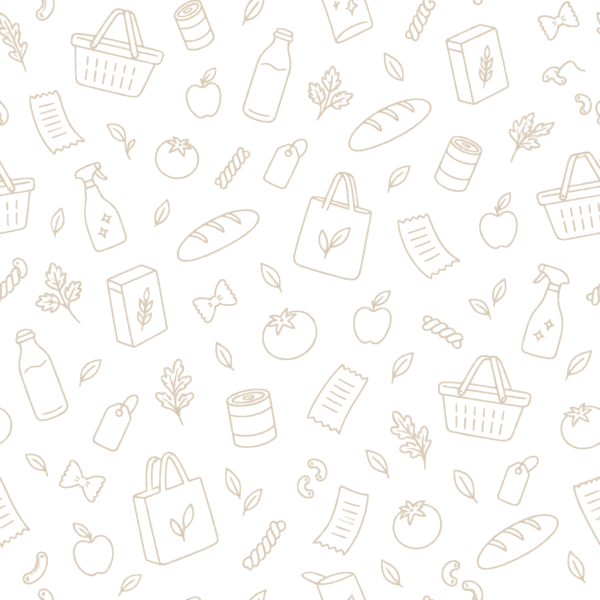
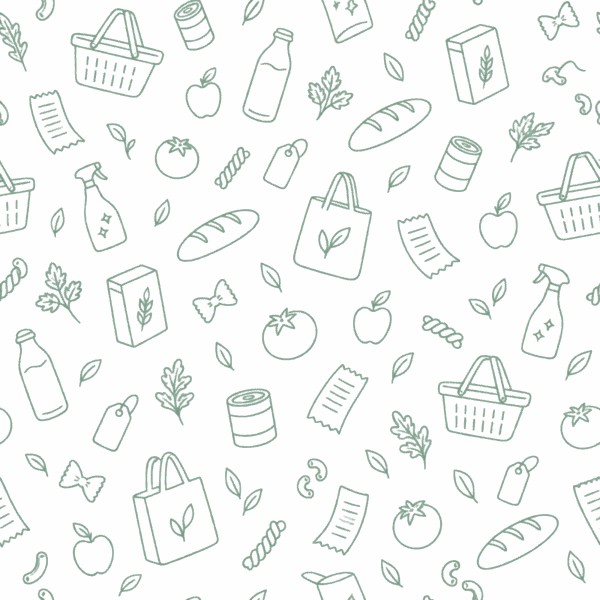
Refine signed-in Home colour hierarchy (#91)

diff --git a/src/components/WeeklyCommandCentre.tsx b/src/components/WeeklyCommandCentre.tsx
@@ -134,7 +134,7 @@ export function WeeklyCommandCentre() {
             </span>
           )}
         </div>
-        <div className="eve-workspace overflow-hidden rounded-[1.75rem] border border-[#dfd9cc] shadow-[0_24px_70px_rgba(38,58,44,0.10)]">
+        <div className="eve-workspace overflow-hidden rounded-[1.75rem] border border-[#d4e4d9] shadow-[0_24px_70px_rgba(38,58,44,0.09)]">
           <HomePlanner onJourneyStateChange={setJourneyState} />
         </div>
         {journeyState.hasConversation && (
@@ -144,10 +144,10 @@ export function WeeklyCommandCentre() {
         )}
       </section>
 
-      <aside className="rounded-[1.5rem] border border-black/[0.06] bg-[#fffdf8] p-4 shadow-[0_18px_55px_rgba(38,58,44,0.07)] sm:p-5 lg:mt-9">
+      <aside className="rounded-[1.5rem] border border-black/[0.065] bg-white p-4 shadow-[0_18px_55px_rgba(38,58,44,0.07)] sm:p-5 lg:mt-9">
         <div className="flex items-center justify-between">
           <div>
-            <p className="text-xs font-bold uppercase tracking-[0.12em] text-[#9c654c]">This week</p>
+            <p className="text-xs font-bold uppercase tracking-[0.12em] text-[#168049]">This week</p>
             <h2 className="mt-1 text-lg font-bold tracking-tight text-[#243128]">Current shop</h2>
             <p className="text-xs text-[#7c857f]">{weekLabel}</p>
           </div>

diff --git a/src/app/globals.css b/src/app/globals.css
@@ -169,12 +169,12 @@ body {
 }
 
 .eve-workspace {
-  background-color: #f7f1e7;
+  background-color: #eef7f1;
   background-image:
-    linear-gradient(rgba(249, 246, 239, 0.76), rgba(249, 246, 239, 0.76)),
+    linear-gradient(rgba(238, 247, 241, 0.90), rgba(238, 247, 241, 0.90)),
     url('/grocery-doodle-pattern.png');
   background-position: center;
-  background-size: auto, 560px 560px;
+  background-size: auto, 500px 500px;
 }
 
 /* ── Utility classes ─────────────────────────────────────────────────── */

diff --git a/src/components/HomeActivity.tsx b/src/components/HomeActivity.tsx
@@ -70,7 +70,7 @@ export function HomeActivity() {
       ) : null}
 
         {lists.length ? (
-        <div className="rounded-[1.4rem] border border-[#e5dcd4] bg-[#fffaf5] px-5 py-4">
+        <div className="rounded-[1.4rem] border border-[#f0d8d0] bg-[#fff1ec] px-5 py-4">
           <p className="text-sm font-semibold mb-2" style={{ color: 'var(--on-surface)' }}>Recent shops</p>
           <div className="space-y-2">
             {lists.map(list => {

diff --git a/src/components/PlanPage.tsx b/src/components/PlanPage.tsx
@@ -26,7 +26,7 @@ export function PlanPage() {
   if (!ready || !isSignedIn) return null;
 
   return (
-    <div className="min-h-screen bg-[#f7f5ef]">
+    <div className="min-h-screen bg-[#f5f6f3]">
       <div className="mx-auto max-w-[1180px] space-y-8 px-4 pb-24 pt-7 sm:px-6 sm:pt-10 lg:px-8">
         <div className="flex items-end justify-between gap-6">
           <div>

diff --git a/PROJECT_STATE.md b/PROJECT_STATE.md
@@ -330,7 +330,7 @@ For every material Supermarket.ie development session:
 - **2026-08-29 — Dunnes confirmed as Instacart Storefront execution.** Production gateway/search works at store 258; cart resource allows GET/POST and returns 401 without authentication. Consequence: design toward a shared Storefront execution engine for Dunnes/SuperValu rather than duplicate retailer-specific cart plumbing.
 - **2026-08-29 — Pepesto public runtime boundary clarified.** Free MCP/list handoff still finishes through Pepesto's mobile app/WebView; no browser-only cross-origin shortcut has been identified.
 - **2026-08-29 — Repository documentation is canonical project memory.** Future sessions must read and maintain these docs.
-- **2026-09-18 — Signed-in Home visual direction modernised.** The forest-green Home banner and narrow dashboard stack were replaced with a wider consumer shopping workspace. Eve is the dominant patterned surface, while the current shop is a compact live companion and household insights use lighter, purpose-specific cards. Green is reserved for actions and positive state rather than large decorative banners; conversation persistence and fresh-start behaviour remain unchanged.
+- **2026-09-18 — Signed-in Home visual direction modernised.** The forest-green Home banner and narrow dashboard stack were replaced with a wider consumer shopping workspace. Eve is the dominant pale-mint patterned surface on a neutral-stone page, while the current shop is a crisp-white live companion and household insights use lighter, purpose-specific cards. Green is reserved for actions and positive state rather than large decorative banners; conversation persistence and fresh-start behaviour remain unchanged.
 
 ## 16. Trusted pricing architecture and current state
 
